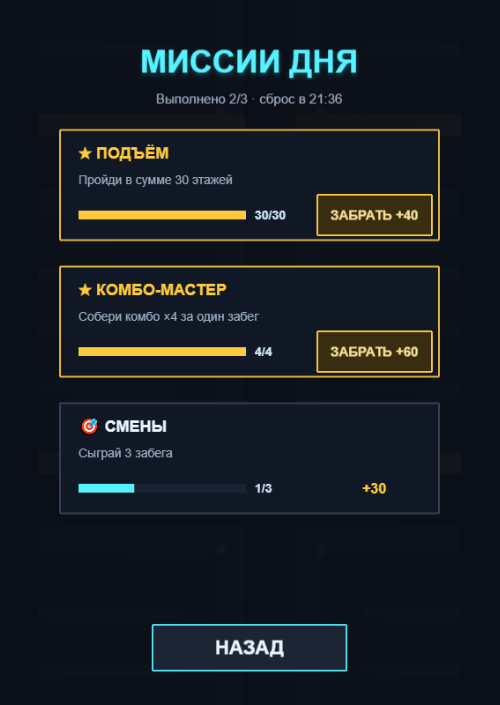
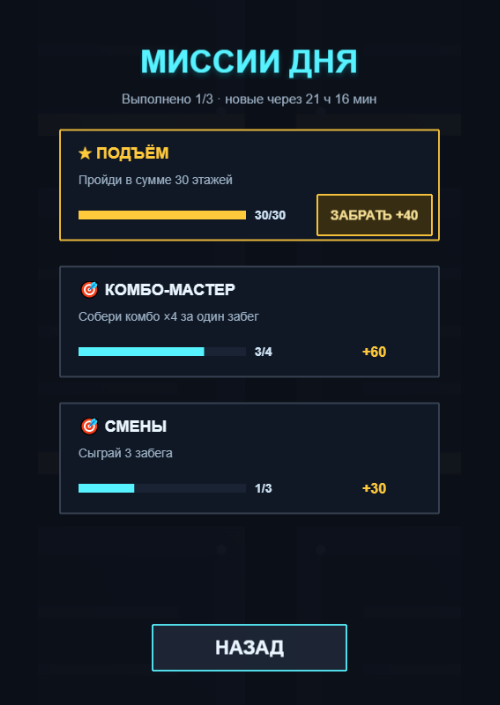
Миссии: «новые через N ч M мин» вместо «сброс в ЧЧ:ММ»
Тикер показывал остаток до полуночи, а подпись «сброс в» читалась как время сброса: в 02:40 ночи — «сброс в 21:19».

Changed region(s): [[0.12, 0.3745, 0.9, 0.5617], [0.24, 0.1248, 0.75, 0.156]]

diff --git a/game/Assets/Scripts/UI/MissionsScene.js b/game/Assets/Scripts/UI/MissionsScene.js
@@ -17,7 +17,7 @@ class MissionsScene extends Phaser.Scene {
     const ms = MissionService.todayMissions();
     const done = ms.filter((m) => MissionService.isDone(m)).length;
     this.sub = this.add.text(240, 112, 'Выполнено ' + done + '/' + ms.length +
-      ' · сброс в ' + this.untilReset(), {
+      ' · новые через ' + this.untilReset(), {
       fontFamily: 'Arial', fontSize: '15px', color: '#9fb4c8'
     }).setOrigin(0.5);
 
@@ -75,12 +75,13 @@ class MissionsScene extends Phaser.Scene {
     });
   }
 
-  /* до сброса миссий — локальная полуночь (показ, а не гейт) */
+  /* сколько осталось до сброса миссий — до местной полуночи (показ, а не гейт).
+   * Раньше выводилось «сброс в 21:19» — читалось как время сброса, а это остаток */
   untilReset() {
     const now = new Date();
     const next = new Date(now); next.setHours(24, 0, 0, 0);
     const h = Math.floor((next - now) / 3600000);
     const min = Math.floor(((next - now) % 3600000) / 60000);
-    return (h < 10 ? '0' : '') + h + ':' + (min < 10 ? '0' : '') + min;
+    return (h ? h + ' ч ' : '') + min + ' мин';
   }
 }

diff --git a/docs/RETENTION.md b/docs/RETENTION.md
@@ -117,7 +117,7 @@ endowment effect: «мне уже дали — я уже в игре»).
   (не «красная точка ради точки» — anti-dark-pattern).
 - **Кнопка «ЗАБРАТЬ»** пульсирует только на выполненных карточках —
   variable reward перенесён в UI: награда «блестит», пока не взята.
-- **Тикер сброса** («сброс в HH:MM») — прозрачность, а не таймер давления:
+- **Тикер сброса** («новые через N ч M мин») — прозрачность, а не таймер давления:
   миссии не «сгорают с каждым тиком на глазах», время показано один раз.
 - **Экран итогов** — динамическая раскладка: блоки «достижения/миссии»
   складываются, кнопки всегда под контентом (одна формула на все случаи).

diff --git a/docs/FIXES.md b/docs/FIXES.md
@@ -160,6 +160,8 @@
     мыльным и на большом холсте.
   - Картинки персонажей и ловушек — PNG по 256 точек, при сильном увеличении они немного мягче текста.
     Это предел самих картинок, а не отрисовки.
+- **Заодно:** `UI/MissionsScene.js` — подпись «сброс в 21:19» показывала не время сброса, а сколько до него
+  осталось (в 02:40 ночи — «сброс в 21:19»). Теперь «новые через 21 ч 19 мин».
 - **Заодно:** `UI/MenuScene.js:188` — сообщение в меню «+25 монет! Возвращайся завтра · миссии ждут награды»
   не помещалось по ширине, теперь переносится.
 - **Проверка:** все браузерные тесты принимают `CHRONO_DPR` (плотность экрана тестового браузера).
